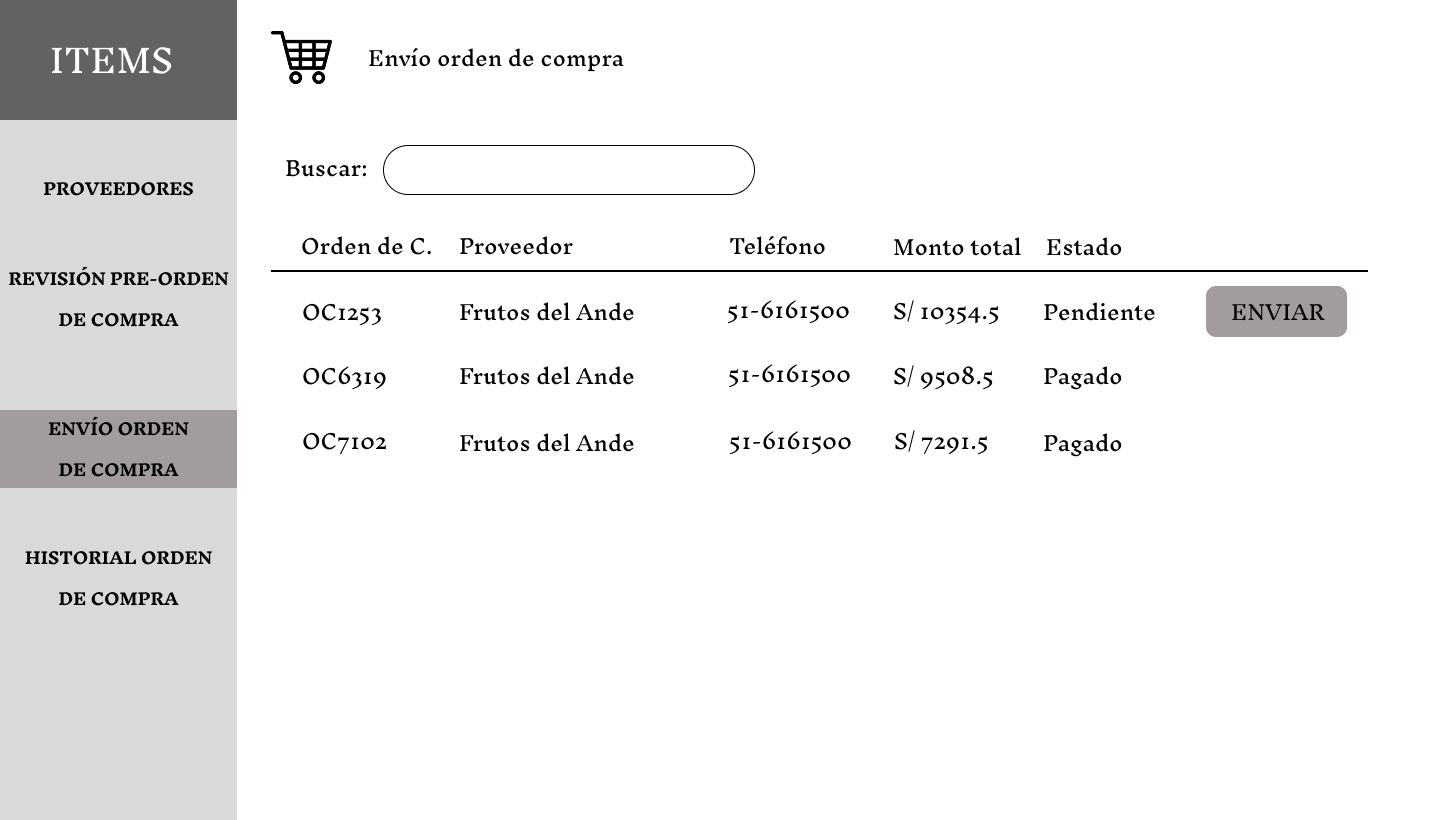
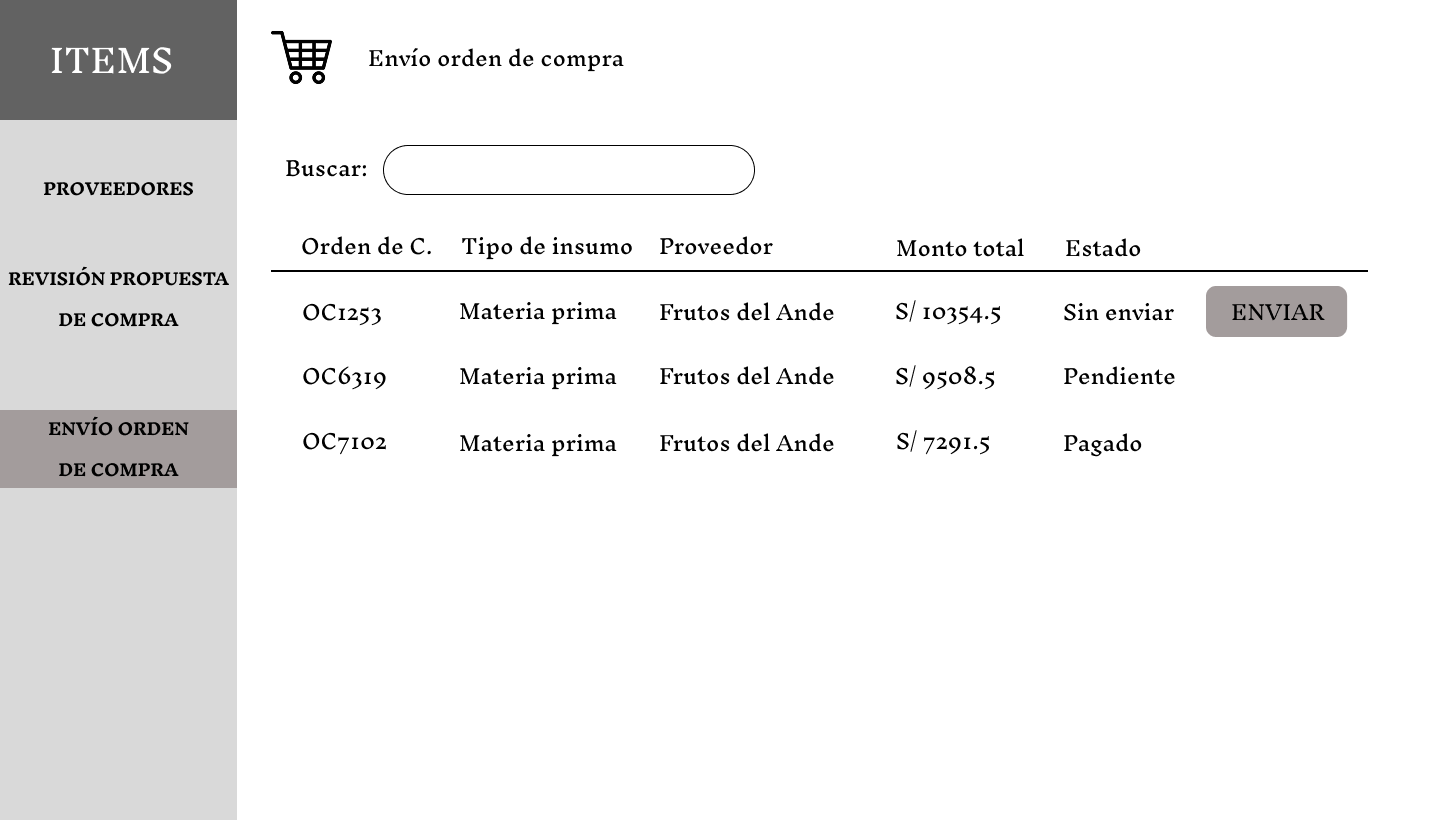
Actualización de los casos de uso - Módulo 5

diff --git a/3/3.4/3.4.md b/3/3.4/3.4.md
@@ -5,9 +5,9 @@
 | **ID**               | CU-01                                                                   |
 |----------------------|-------------------------------------------------------------------------|
 | **Actor(es)**        | Jefe de Compras                                            |
-| **Descripción**      | Permite al jefe de compras registrar nuevos proveedores, junto con los insumos que ofrecen, incluyendo datos como nombre, RUC, contacto, categoría de insumo, insumo y precio unitario.          |
+| **Descripción**      | Permite al jefe de compras registrar nuevos proveedores, junto con los insumos que ofrecen, incluyendo datos como nombre, RUC, contacto, categoría, insumo y precio unitario.          |
 | **Precondiciones**   | El usuario debe estar logueado en el sistema.           |
-| **Flujo Principal**  | 1. Selecciona el item "PROVEEDORES". <br> 2. Inicia un nuevo registro de proveedor. <br> 3. Ingresa los datos principales del proveedor.  <br> 4. Selecciona la categoría de insumo a la que se dedica. <br> 5. Registra los insumos que ofrece y sus precios unitarios.  <br> 6. Finaliza el registro del proveedor.  <br> 7. El sistema actualiza la tabla de proveedores. |
+| **Flujo Principal**  | 1. Selecciona el item "PROVEEDORES". <br> 2. Inicia un nuevo registro de proveedor. <br> 3. Ingresa los datos principales del proveedor.  <br> 4. Selecciona la categoría a la que pertenece. <br> 5. Registra los insumos que ofrece y sus precios unitarios.  <br> 6. Finaliza el registro del proveedor.  <br> 7. El sistema actualiza la tabla de proveedores. |
 | **Requerimientos Especiales** | Formulario completo con validación de campos.    |
 | **Frecuencia de Uso**| Poco frecuente, cuando hay un nuevo proveedor o insumo que ofrece.   |
 
@@ -15,17 +15,17 @@
 ### En el item PROVEEDORES
 
 1. Se selecciona el botón "REGISTRAR" para iniciar el registro de un nuevo proveedor, puede ser con previo contacto a este.
-
+---
 ![Compras_Proveedores_01](Prototipos/Compras_Proveedores_01.png)
 ---
 
-2. Se ingresa los datos principales del proveedor y se selecciona la categoría de insumo a la que se dedica, luego se selecciona el boton "CONTINUAR".
-
+2. Se ingresa los datos principales del proveedor y se selecciona la categoría a la que pertenece, luego se selecciona el boton "CONTINUAR".
+---
 ![Compras_Proveedores_02](Prototipos/Compras_Proveedores_02.png)
 ---
 
-3. Cada vez que se quiera registrar un insumo, se selecciona cual y se registra su precio unitario, código EAN y unidad. Luego se selecciona el botón "AÑADIR" para guardarlo en la tabla. Por último, se selecciona el botón "CONFIRMAR" cuando se hallan registrado todos los insumos que ofrece el proveedor.
-
+3. Cada vez que se quiera registrar un insumo, se selecciona cual y se registra su precio unitario y unidad de medida. Luego se selecciona el botón "AÑADIR" para guardarlo en la tabla. Por último, se selecciona el botón "ACEPTAR" cuando se hallan registrado todos los insumos que ofrece el proveedor.
+---
 ![Compras_Proveedores_03](Prototipos/Compras_Proveedores_03.png)
 ---
 
@@ -44,12 +44,12 @@
 ### En el item SOLICITUD DE ABASTECIMIENTO
 
 1. Se selecciona el botón "VER" para iniciar la revisión de la solicitud de abastecimiento.
-
+---
 ![Compras_Solicitud_De_Abastecimiento_01](Prototipos/Compras_Solicitud_De_Abastecimiento_01.png)
 ---
 
 2. Se recibe detalles acerca de los insumos solicitados, como la cantidad y su unidad. Luego se selecciona el boton "ACEPTAR" para registrar la solicitud como atendida.
-
+---
 ![Compras_Solicitud_De_Abastecimiento_02](Prototipos/Compras_Solicitud_De_Abastecimiento_02.png)
 ---
 
@@ -58,133 +58,110 @@
 | **ID**               | CU-03                                                                   |
 |----------------------|-------------------------------------------------------------------------|
 | **Actor(es)**        | Operario de Compras                                            |
-| **Descripción**      | Permite al operario planificar la compra en base a las solicitudes de abastecimiento, elige el proveedor más conveniente y genera una pre-orden.          |
+| **Descripción**      | Permite al operario planificar la compra en base a las solicitudes de abastecimiento, elige el proveedor más conveniente y genera una propuesta de compra.          |
 | **Precondiciones**   | Solicitudes atendidas con insumos pendientes a abastecer.           |
-| **Flujo Principal**  | 1. Selecciona el item "PLANIFICACIÓN DE COMPRA". <br> 2. Selecciona a que categoría de insumo realizar la planificación. <br> 3. Selecciona el proveedor más conveniente. <br> 4. Llena la tabla según los precios del proveedor. <br> 5. Aplica algún descuento ofrecido pore el proveedor. <br> 6. Registra la fecha y hora acordada de entrega. <br> 7. El sistema registra una nueva orden de pre-compra. |
+| **Flujo Principal**  | 1. Selecciona el item "PLANIFICACIÓN DE COMPRA". <br> 2. Selecciona a que tipo de insumo realizar la planificación. <br> 3. Selecciona el proveedor más conveniente. <br> 4. Llena la tabla según los precios del proveedor. <br> 5. Aplica algún descuento ofrecido pore el proveedor. <br> 6. Registra la fecha y hora acordada de entrega. <br> 7. El sistema registra una nueva propuesta de compra. |
 | **Requerimientos Especiales** | Comparación de precios y tiempos de entrega.    |
 | **Frecuencia de Uso**| Frecuente, dependiendo de las solicitudes activas.   |
 
 ## *Prototipo:*
 ### En el item PLANIFICACIÓN DE COMPRA
 
-1. Se selecciona la categoría de insumo que se desee realizar su planificación de compra.
-
+1. Se selecciona el tipo de insumo que se desee realizar su planificación de compra.
+---
 ![Compras_Planificación_De_Compra_01](Prototipos/Compras_Planificación_De_Compra_01.png)
 ---
 
-2. Se selecciona el proveedor mas conveniente, se selecciona el botón "LLENAR" para comparar el monto total según el precio unitario de insumo y su cantidad requerida, luego se selecciona el botón "APLICAR" si existe algún descuento previamente acordado con el proveedor y así modificar el monto total a pagar. Por último, se selecciona el botón "ENVIAR" para registrar una nueva orden de pre-compra.
-
+2. Se selecciona el proveedor mas conveniente, se selecciona el botón "LLENAR" para comparar el monto total según el precio unitario de insumo y su cantidad requerida, luego se selecciona el botón "APLICAR" si existe algún descuento previamente acordado con el proveedor y así modificar el monto total a pagar. Por último, se selecciona el botón "ENVIAR" para registrar una nueva propuesta de compra.
+---
 ![Compras_Planificación_De_Compra_02](Prototipos/Compras_Planificación_De_Compra_02.png)
 ---
 
-## **Caso de uso #4: 	Revisar Pre-orden de Compra**
+## **Caso de uso #4: 	Revisar Propuesta de Compra**
 
 | **ID**               | CU-04                                                                   |
 |----------------------|-------------------------------------------------------------------------|
 | **Actor(es)**        | Jefe de Compras                                            |
 | **Descripción**      | Permite al jefe revisar la planificación hecha por el operario y decidir si se aprueba o rechaza.          |
-| **Precondiciones**   | Existencia de pre-ordenes generadas.           |
-| **Flujo Principal**  | 1. Selecciona el item "REVISIÓN PRE-ORDEN DE COMPRA". <br> 2. Selecciona pre-orden de compra pendiente. <br> 3. Recibe detalles de la pre-orden de compra. <br> 4. Aprueba la pre-orden de compra. <br> 5. El sistema registra un nuevo envío de orden de compra. |
+| **Precondiciones**   | Existencia de propuestas de compra generadas.           |
+| **Flujo Principal**  | 1. Selecciona el item "REVISIÓN PROPUESTA DE COMPRA". <br> 2. Selecciona la propuesta de compra pendiente. <br> 3. Recibe detalles de la propuesta de compra. <br> 4. Aprueba la propuesta de compra. <br> 5. El sistema registra una nueva orden de compra. <br> 6. Envia la orden de compra al área de finanzas para que realice el pago.  <br> 7. Una vez pagada, se genera un nuevo proceso de seguimiento de compra.|
 | **Requerimientos Especiales** | Sistema debe mantener registro de decisiones.    |
 | **Frecuencia de Uso**| Frecuente, según flujo de compras.   |
 
 ## *Prototipo:*
-### En el item REVISIÓN PRE-ORDEN DE COMPRA
+### En el item REVISIÓN PROPUESTA DE COMPRA
 
-1. Se selecciona el botón "VER" para visualizar los detalles de la pre-orden de compra pendiente.
-
-![Compras_Revisión_Pre-oden_De_Compra_01](Prototipos/Compras_Revisión_Pre-oden_De_Compra_01.png)
+1. Se selecciona el botón "VER" para visualizar los detalles de la propuesta de compra pendiente.
+---
+![Compras_Revisión_Propuesta_De_Compra_01](Prototipos/Compras_Revisión_Propuesta_De_Compra_01.png)
 ---
 
-2. Se reciben los detalles acerca de la pre-oden de compra, luego el jefe selecciona el botón "APROBAR" para registrar un nuevo envío de orden de compra, pero en caso de no estar de acuerdo, se selecciona el botón "RECHAZAR" para devolver los datos de insumos solicitados a planificación de compra.
-
-![Compras_Revisión_Pre-oden_De_Compra_02](Prototipos/Compras_Revisión_Pre-oden_De_Compra_02.png)
+2. Se reciben los detalles acerca de la propuesta de compra, luego el jefe selecciona el botón "ACEPTAR" para registrar una nueva orden de compra, pero en caso de no estar de acuerdo, se selecciona el botón "RECHAZAR" para devolver los datos de insumos solicitados a planificación de compra.
+---
+![Compras_Revisión_Propuesta_De_Compra_02](Prototipos/Compras_Revisión_Propuesta_De_Compra_02.png)
 ---
 
-## **Caso de uso #5: 	Enviar Orden de Compra**
-
-| **ID**               | CU-05                                                                   |
-|----------------------|-------------------------------------------------------------------------|
-| **Actor(es)**        | Jefe de Compras                                            |
-| **Descripción**      | Permite al jefe generar una orden de compra formal para enviarlo al área de finanzas.          |
-| **Precondiciones**   | Pre-orden de compra aprobada.           |
-| **Flujo Principal**  | 1. Selecciona el item "ENVÍO ORDEN DE COMPRA". <br> 2. Envía la orden de compra al área de finanzas. <br> 3. El sistema registra la orden de compra como pagado. <br> 4. El sistema registra la orden de compra en el historial. <br> 5. Selecciona el item "HISTORIAL ORDEN DE COMPRA". <br> 5. Visualiza los detalles de la orden de compra.|
-| **Requerimientos Especiales** | Validación de datos de proveedor y monto total.    |
-| **Frecuencia de Uso**| Frecuente, según flujo de compras.   |
-
-## *Prototipo:*
 ### En el item ENVÍO ORDEN DE COMPRA
 
-1. Se selecciona el botón "ENVIAR" para mandar la orden de compra al área de finanzas para que realice el pago, luego de hacerlo, el estado de orden de compra se actualiza como pagado.
-
+1. Se selecciona el botón "ENVIAR" para mandar la orden de compra al área de finanzas para que realice el pago, luego de hacerlo, el estado de orden de compra se actualiza como pagado y a su vez, se genera un nuevo proceso de seguimiento de compra.
+---
 ![Compras_Envío_Orden_De_Compra_01](Prototipos/Compras_Envío_Orden_De_Compra_01.png)
 ---
 
-### En el item HISTORIAL ORDEN DE COMPRA
-2. Se muestra la tabla de ordenes de compra, donde el jefe tiene opción de ver los gastos a través de un historial. Se selecciona el botón "VER" para visualizar los detalles de la orden de compra.
+## **Caso de uso #5: Controlar seguimiento de Compra**
 
-![Compras_Historial_Orden_De_Compra_01](Prototipos/Compras_Historial_Orden_De_Compra_01.png)
----
-
-3. Se visualizan los detallesd e la orden de compra, se selecciona el botón "VOLVER" para regresar a la ventana anterior.
-
-![Compras_Historial_Orden_De_Compra_02](Prototipos/Compras_Historial_Orden_De_Compra_02.png)
----
-
-## **Caso de uso #6: 	Recepcionar Compra**
-
-| **ID**               | CU-06                                                                   |
+| **ID**               | CU-05                                                                   |
 |----------------------|-------------------------------------------------------------------------|
 | **Actor(es)**        | Operario de Compras                                            |
-| **Descripción**      | El operario recibe físicamente los lotes de insumos del proveedor, verifica los tiempos de entrega y los envía al área de calidad.          |
-| **Precondiciones**   | Orden de compra pagada y programada.           |
-| **Flujo Principal**  | 1. Selecciona el item "RECEPCIÓN DE COMPRAS". <br> 2. Inicia la recepción de compra recibida. <br> 3. Registra los lotes de insumos comprados. <br> 4. Registra la fecha y hora de la compra recibida. <br> 5. Actualiza el estado de la compra.|
+| **Descripción**      | El operario recibe físicamente los lotes de insumos del proveedor, verifica los tiempos de entrega y los envía al área de calidad para asegurar que cumplan con sus estándares respectivos.          |
+| **Precondiciones**   | Orden de compra pagada y entrega de compra programada.           |
+| **Flujo Principal**  | 1. Selecciona el item "SEGUIMIENTO DE COMPRA". <br> 2. Controla el seguimiento de la compra recibida. <br> 3. Registra los lotes de insumos comprados. <br> 4. Registra la fecha y hora de la compra recibida. <br> 5. Actualiza el estado de la compra.|
 | **Requerimientos Especiales** | Registro de fecha de recepción y lotes recibidos.    |
 | **Frecuencia de Uso**| Frecuente, cada vez que llegan pedidos.   |
 
 ## *Prototipo:*
-### En el item RECEPCIÓN DE COMPRAS
+### En el item SEGUIMIENTO DE COMPRA
 
-1. Se selecciona el botón "VER" para iniciar con la recepción de la compra recibida.
-
-![Compras_Recepción_De_Compras_01](Prototipos/Compras_Recepción_De_Compras_01.png)
+1. Se selecciona el botón "VER" para controlar el seguimiento de la compra recibida.
+---
+![Compras_Seguimiento_De_Compra_01](Prototipos/Compras_Seguimiento_De_Compra_01.png)
 ---
 
 2. Se registran los lotes de insumos comprados, también se compara la fecha y hora a la que fue entregada con la acordada. Por último, se selecciona el botón "ACEPTAR" para actualizar el estado de la compra.
-
-![Compras_Recepción_De_Compras_02](Prototipos/Compras_Recepción_De_Compras_02.png)
+---
+![Compras_Seguimiento_De_Compra_02](Prototipos/Compras_Seguimiento_De_Compra_02.png)
 ---
 
-## **Caso de uso #7: 	Atender Lotes Rechazados**
+## **Caso de uso #6: 	Atender Lotes Rechazados**
 
-| **ID**               | CU-07                                                                   |
+| **ID**               | CU-06                                                                   |
 |----------------------|-------------------------------------------------------------------------|
 | **Actor(es)**        | Operario de Compras                                            |
-| **Descripción**      | Si calidad rechaza un lote, el operario gestiona el reclamo con el proveedor para reposición o devolución del dinero.          |
+| **Descripción**      | Si el área calidad rechaza un lote, el operario gestiona el reclamo con el proveedor para reposición del lote de insumo rechazado o devolución del dinero.          |
 | **Precondiciones**   | Evaluación negativa del área de calidad.           |
-| **Flujo Principal**  | 1. Selecciona el item "ATENCIÓN DE LOTES RECHAZADOS". <br> 2. Inicia con el reclamo del lote rechazado. <br> 3. Recibe detalles del motivo de rechazo. <br> 4. Especifica el objetivo del reclamo. <br> 5. Envia el reclamo formal al proveedor. <br> 6. El sistema actualiza el estado del reclamo a pendiente. <br> 7. Actualiza el estado del reclamo según respuesta del proveedor.|
+| **Flujo Principal**  | 1. Selecciona el item "ATENCIÓN DE LOTES RECHAZADOS". <br> 2. Inicia con el reclamo del lote rechazado. <br> 3. Recibe detalles del motivo de rechazo. <br> 4. Especifica el objetivo del reclamo. <br> 5. Envia el reclamo formal al proveedor. <br> 6. El sistema actualiza el estado del reclamo como "En proceso". <br> 7. Actualiza el estado del reclamo según respuesta del proveedor. <br> El sistema marca el estado de reclamo como "Resuelto".|
 | **Requerimientos Especiales** | Registro de comunicación con proveedor.    |
 | **Frecuencia de Uso**| Poco frecuente, depende de la calidad de los insumos.   |
 
 ## *Prototipo:*
-### En el item RECEPCIÓN DE COMPRAS
+### En el item ATENCIÓN DE LOTES RECHAZADOS
 
-1. Se selecciona el botón "RECLAMAR" para iniciar con el reclamo del lote rechazado por el área de calidad.
-
+1. Se selecciona el botón "VER" para iniciar con el reclamo del lote rechazado por el área de calidad.
+---
 ![Compras_Atención_De_Lotes_Rechazados_01](Prototipos/Compras_Atención_De_Lotes_Rechazados_01.png)
 ---
 
-2. Se recibe los detalles del motivo de rechazo, como las observaciones notadas y fotos adjuntas como prueba. Luego, se selecciona el objetivo del reclamo para enviarle un reclamo formal al proveedor. Por último, se actualiza el estado del reclamo a pendiente.
-
+2. Se recibe los detalles del motivo de rechazo, como las observaciones notadas durante la revisión y fotos adjuntas como prueba. Luego, se selecciona el objetivo del reclamo para enviarle un reclamo formal al proveedor. Por último, se actualiza el estado del reclamo como "En proceso".
+---
 ![Compras_Atención_De_Lotes_Rechazados_02](Prototipos/Compras_Atención_De_Lotes_Rechazados_02.png)
 ---
 
-3. En caso de que el proveedor realice la reposición del lote de insumo, se registra nuevamente el lote, como también la fecha y hora. Luego se envia el lote al área de calidad. Por último, se actualiza el estado del reclamo a terminado.
-
+3. En caso de que el proveedor realice la reposición del lote de insumo, se registra nuevamente el lote, como también la fecha y hora. Luego se envia el lote al área de calidad. Por último, se actualiza el estado del reclamo como "Resuelto".
+---
 ![Compras_Atención_De_Lotes_Rechazados_03](Prototipos/Compras_Atención_De_Lotes_Rechazados_03.png)
 ---
 
-4. En caso de que el proveedor realice la devolución del dinero, se recibe la cantidad de dinero correspondiente a devolver. Por último, se actualiza el estado del reclamo a terminado.
-
+4. En caso de que el proveedor realice la devolución del dinero, se recibe la cantidad de dinero correspondiente a devolver, como también la fecha y hora. Por último, se actualiza el estado del reclamo como "Resuelto".
+---
 ![Compras_Atención_De_Lotes_Rechazados_04](Prototipos/Compras_Atención_De_Lotes_Rechazados_04.png)
 ---
